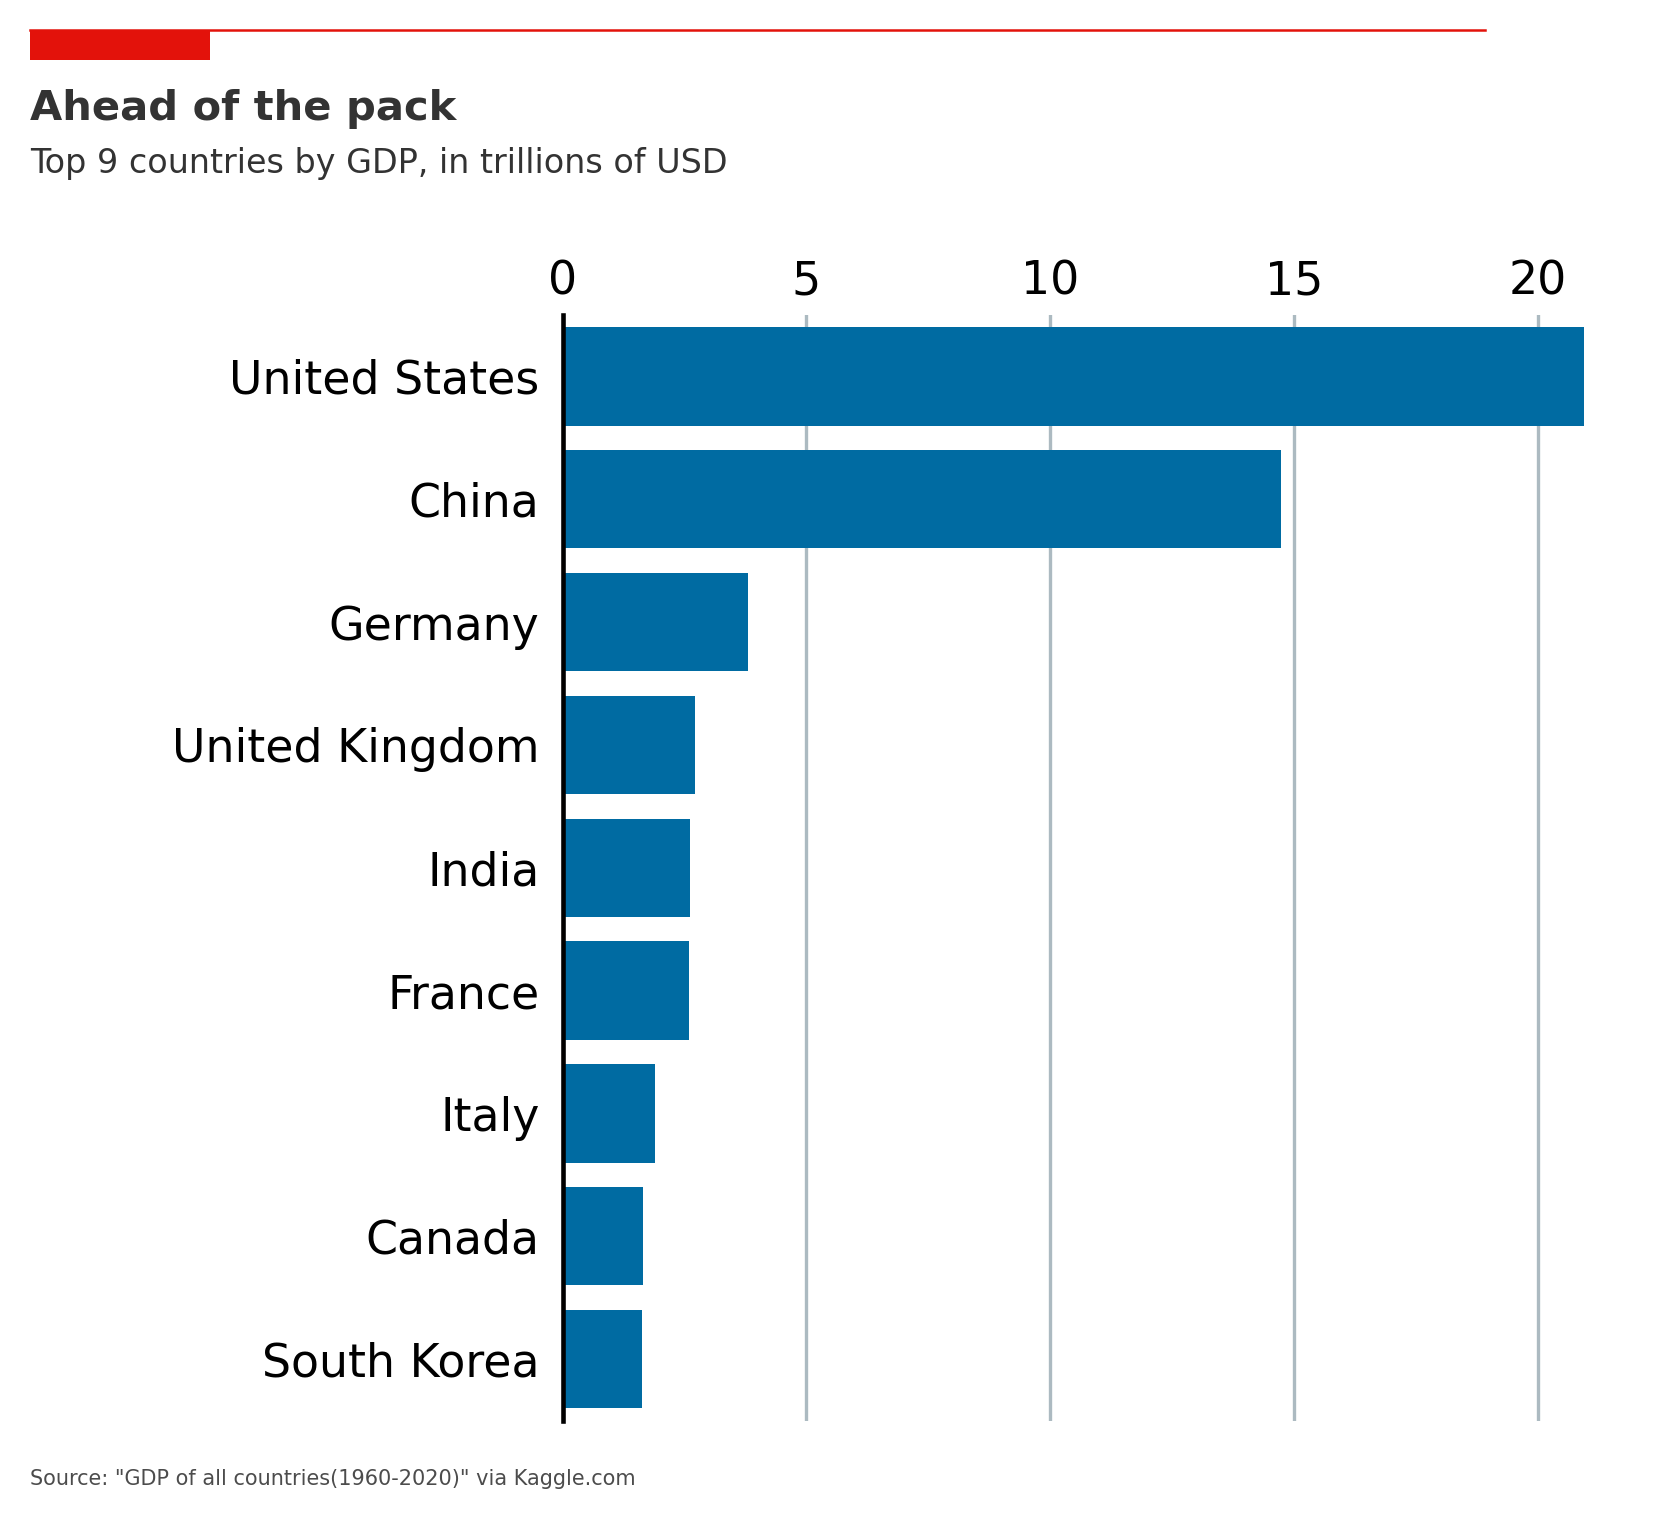
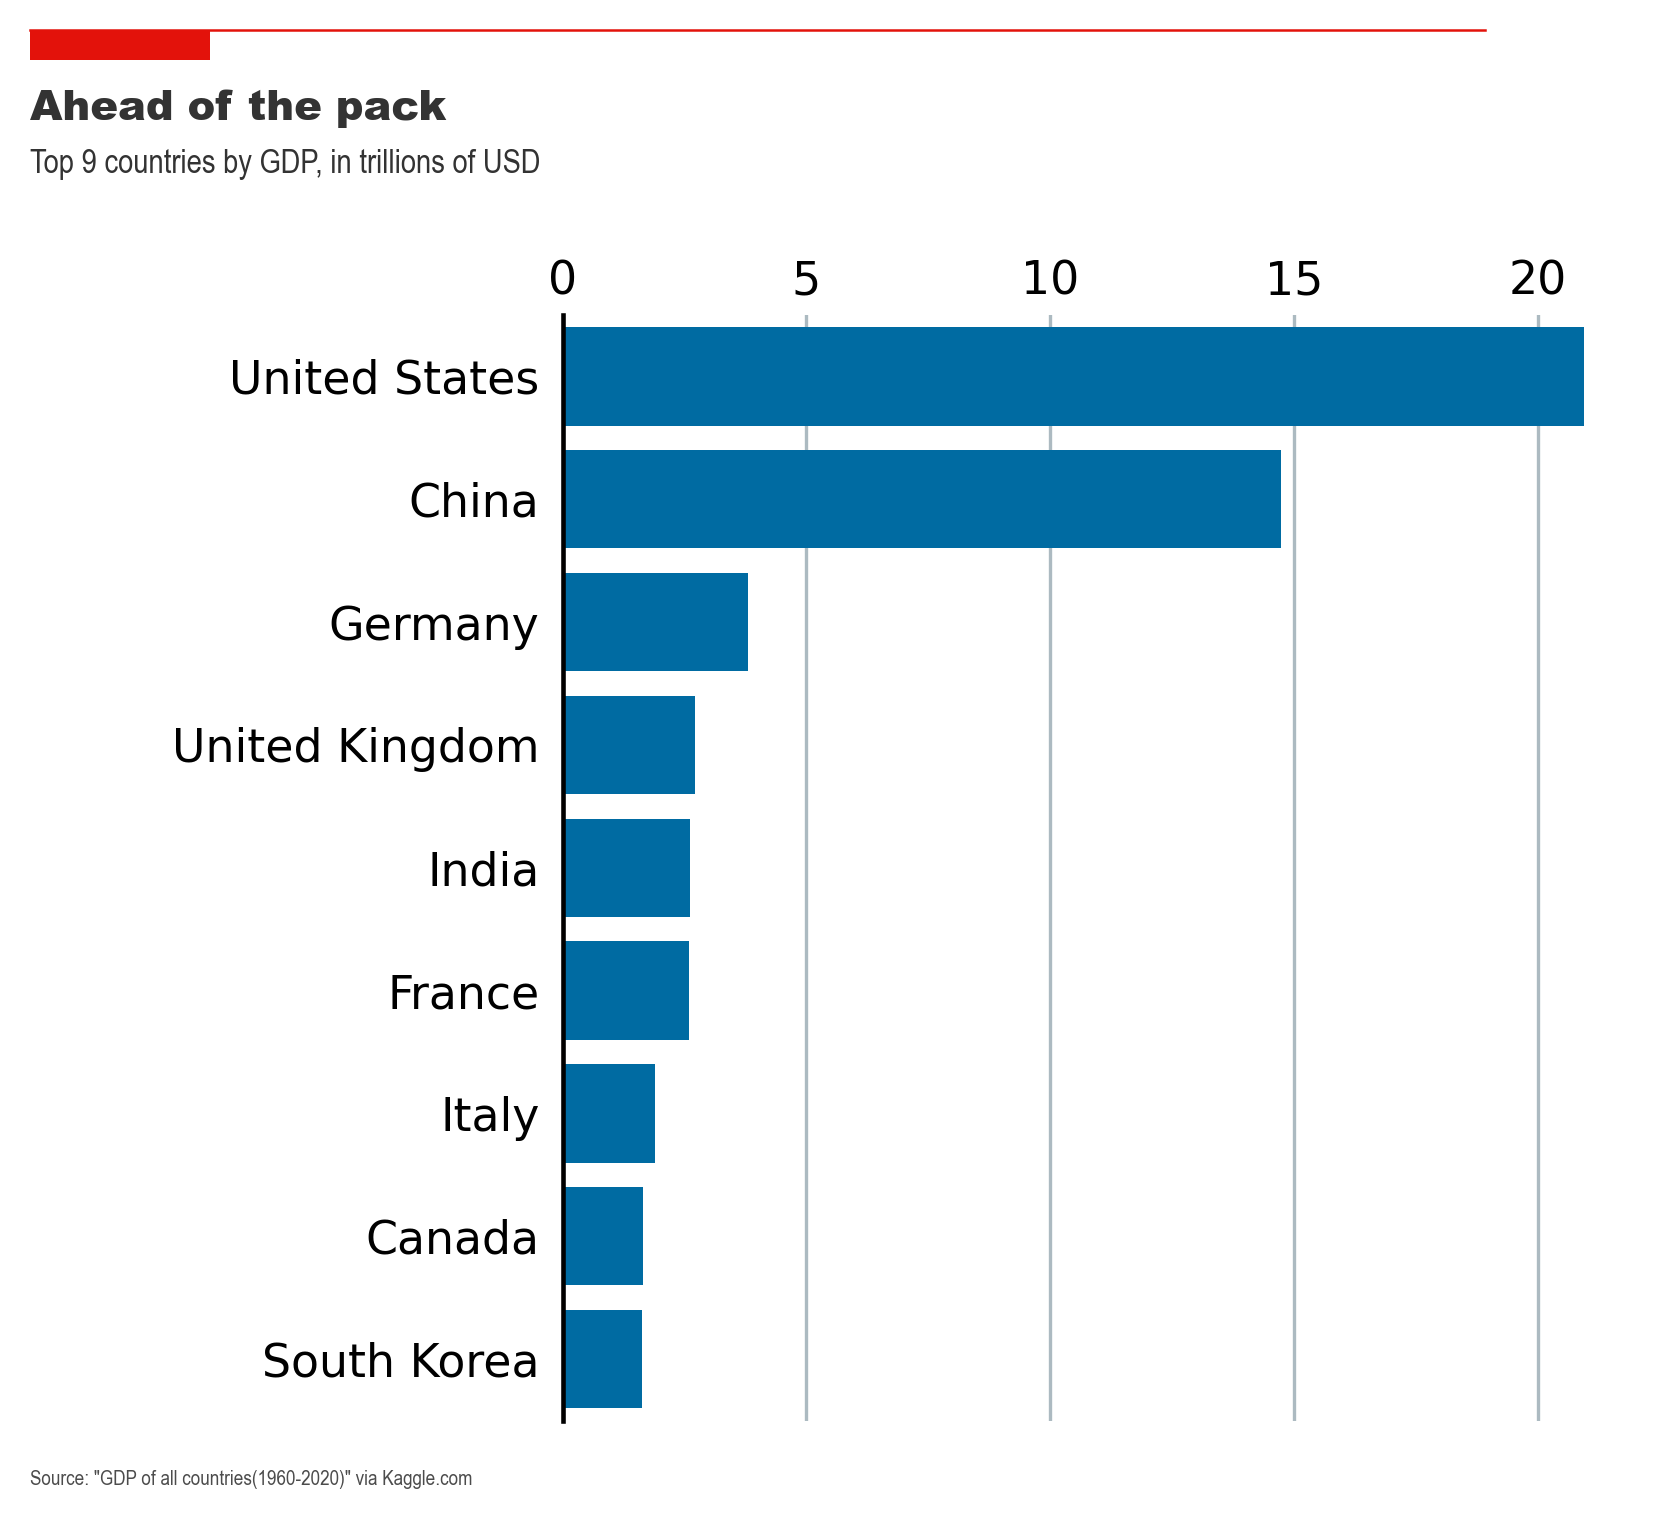
updated fonts

Changed region(s): [[0.0, 0.0619, 0.4372, 0.1238], [0.0312, 0.9592, 0.3748, 0.9901]]

diff --git a/economist_plots/res/economist_bar_plot.py b/economist_plots/res/economist_bar_plot.py
@@ -68,11 +68,11 @@ def make_economist_barplot(fig_size=(3,6),
                             linewidth = 0))
 
     # Add in title and subtitle
-    ax.text(x=-.1, y=.96, s=title_text, transform=fig.transFigure, ha='left', fontsize=10, weight='bold', alpha=.8)
-    ax.text(x=-.1, y=.925, s=sub_title_text, transform=fig.transFigure, ha='left', fontsize=8, alpha=.8)
+    ax.text(x=-.1, y=.96, s=title_text, transform=fig.transFigure, ha='left', fontsize=10, weight='bold', alpha=.8, fontname="Arial Black")
+    ax.text(x=-.1, y=.925, s=sub_title_text, transform=fig.transFigure, ha='left', fontsize=8, alpha=.8, fontname="Arial Narrow")
 
     # Set source text
-    ax.text(x=-.1, y=.05, s=source_text, transform=fig.transFigure, ha='left', fontsize=5, alpha=.7)
+    ax.text(x=-.1, y=.05, s=source_text, transform=fig.transFigure, ha='left', fontsize=5, alpha=.7, fontname="Arial Narrow")
 
     plt.tight_layout()
 
